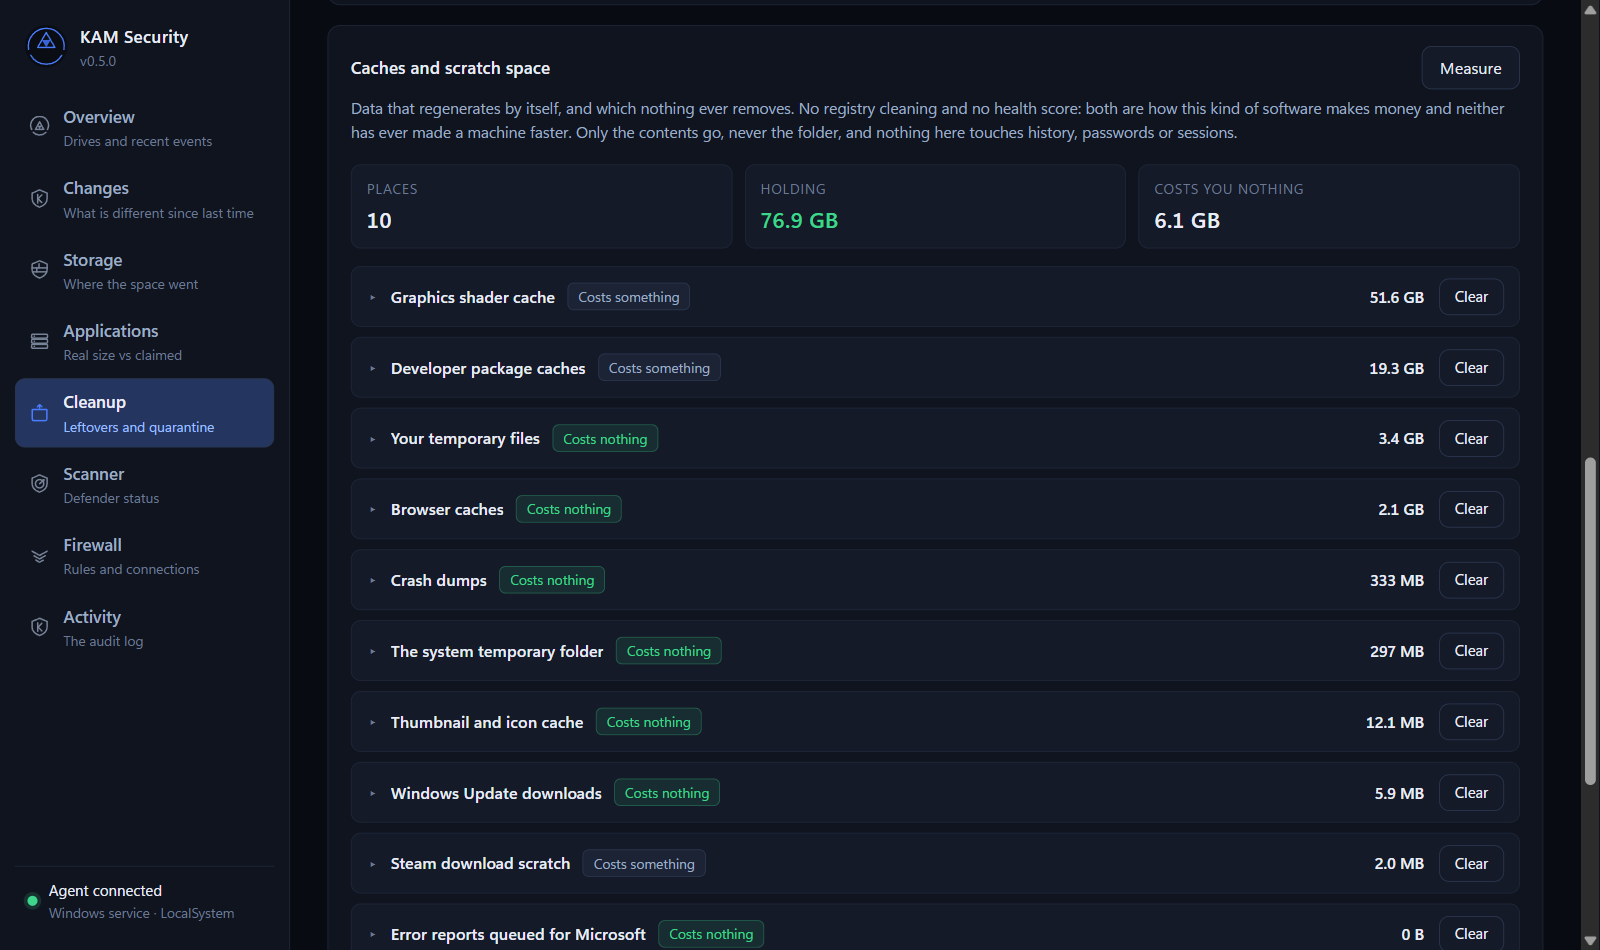
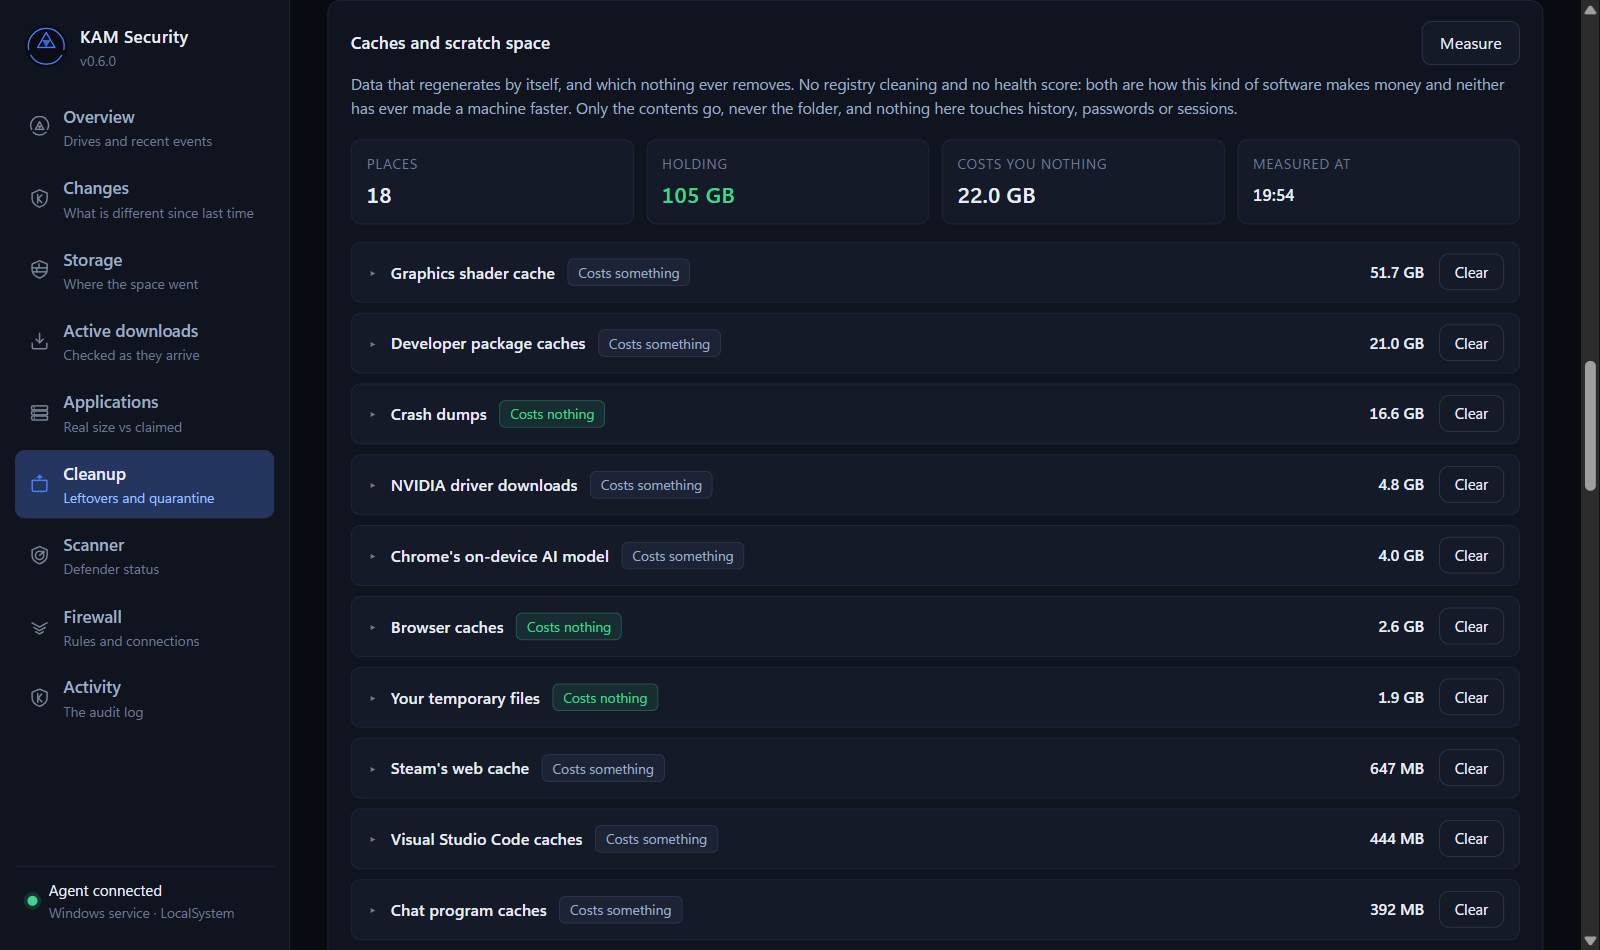
Retake the screenshots at v0.6.0
All eight README images, taken from the installed v0.6.0 after the
release was published, so the Overview's update check says 0.6.0 is the
latest. Storage now shows the drive's map, Applications the winget panel,
Firewall the connections grouped by who signed them, Cleanup the eighteen
caches, and Changes a past comparison kept as it was shown, with what was
recorded afresh said rather than reported as changed. Each image was read
before it was committed: none shows a personal file name, and the hosts
file panel is left out. The alt text says what each image now shows.

diff --git a/README.md b/README.md
@@ -44,20 +44,20 @@ Presenting circumstantial evidence as a verdict is the whole business model of
 the software this replaces.
 
 <p align="center">
-  <img src="docs/images/overview.png" width="900" alt="The Overview: protection on, starting at sign-in in the notification area, the update check, and the drives it can see">
+  <img src="docs/images/overview.png" width="900" alt="The Overview: protection on, starting at sign-in in the notification area, what Windows says about its own updates, and the update check finding 0.6.0 is the latest release">
 </p>
 
 <table>
   <tr>
-    <td width="50%"><img src="docs/images/storage.png" alt="Storage: 845 GB across 1.67 million files measured from the master file table in 2.9 seconds, drawn as a treemap"></td>
-    <td width="50%"><img src="docs/images/applications.png" alt="Applications: 484 GB actually used against the 55.7 GB Control Panel claims, sorted by real size"></td>
+    <td width="50%"><img src="docs/images/storage.png" alt="Storage: drive C: drawn to scale as a treemap from one read of the master file table, with the biggest folders and the largest single files below it"></td>
+    <td width="50%"><img src="docs/images/applications.png" alt="Applications: 282 GB actually used against the 64.7 GB Control Panel claims, measured in 3.0 seconds, with winget's list of newer versions one press away"></td>
   </tr>
   <tr>
     <td><b>Storage:</b> a whole drive read from the master file table in about three seconds, drawn to scale.</td>
     <td><b>Applications:</b> what each program really occupies, against what its installer claimed.</td>
   </tr>
   <tr>
-    <td><img src="docs/images/firewall.png" alt="Firewall: 698 rules, 71 open connections, and every connection grouped by the publisher that signed the program, with a colour legend"></td>
+    <td><img src="docs/images/firewall.png" alt="Firewall: 23 programs with open connections, grouped by the publisher that signed each one, with a colour legend"></td>
     <td><img src="docs/images/scanner.png" alt="Scanner: Defender's own protections read from Defender, with the same quick or full scan as Windows Security started from here"></td>
   </tr>
   <tr>
@@ -65,7 +65,7 @@ the software this replaces.
     <td><b>Scanner:</b> Defender's real state, and the same scan as Windows Security, started from here.</td>
   </tr>
   <tr>
-    <td><img src="docs/images/cleanup.png" alt="Cleanup: ten caches holding 76.9 GB, each marked with whether clearing it costs anything"></td>
+    <td><img src="docs/images/cleanup.png" alt="Cleanup: eighteen caches holding 105 GB, each marked with whether clearing it costs anything"></td>
     <td><img src="docs/images/overview-activity.png" alt="The weekly check registered for Monday at 09:00, and the audit log of recent activity"></td>
   </tr>
   <tr>
@@ -475,7 +475,7 @@ There is no score, because a score needs an idea of what a correct machine
 looks like, and this software does not have one.
 
 <p align="center">
-  <img src="docs/images/changes.png" width="900" alt="Changes: fifteen things different since the last look, with a source that could not be read said out loud rather than reported as gone">
+  <img src="docs/images/changes.png" width="900" alt="Changes: a past comparison kept as it was shown, ten things different since the one before, with what could not be read and what was recorded afresh said out loud rather than reported as changed">
 </p>
 
 Things disappearing count at least as much as things appearing. An antivirus
